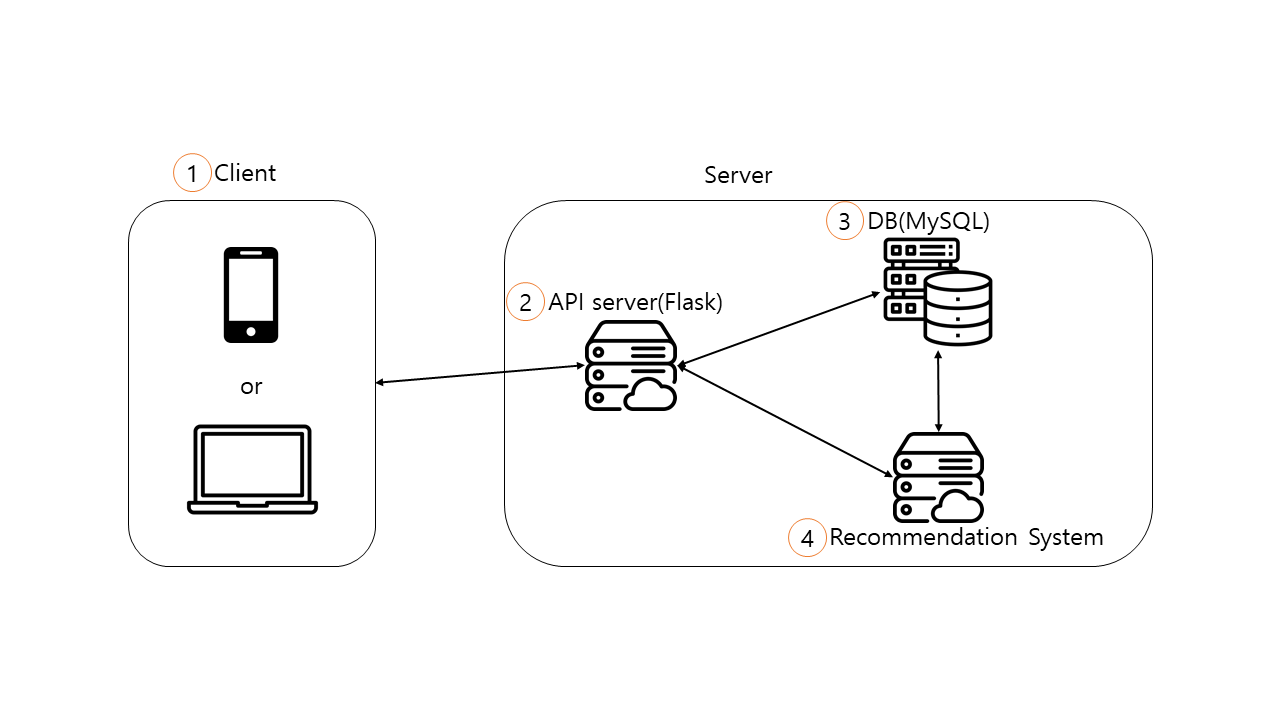
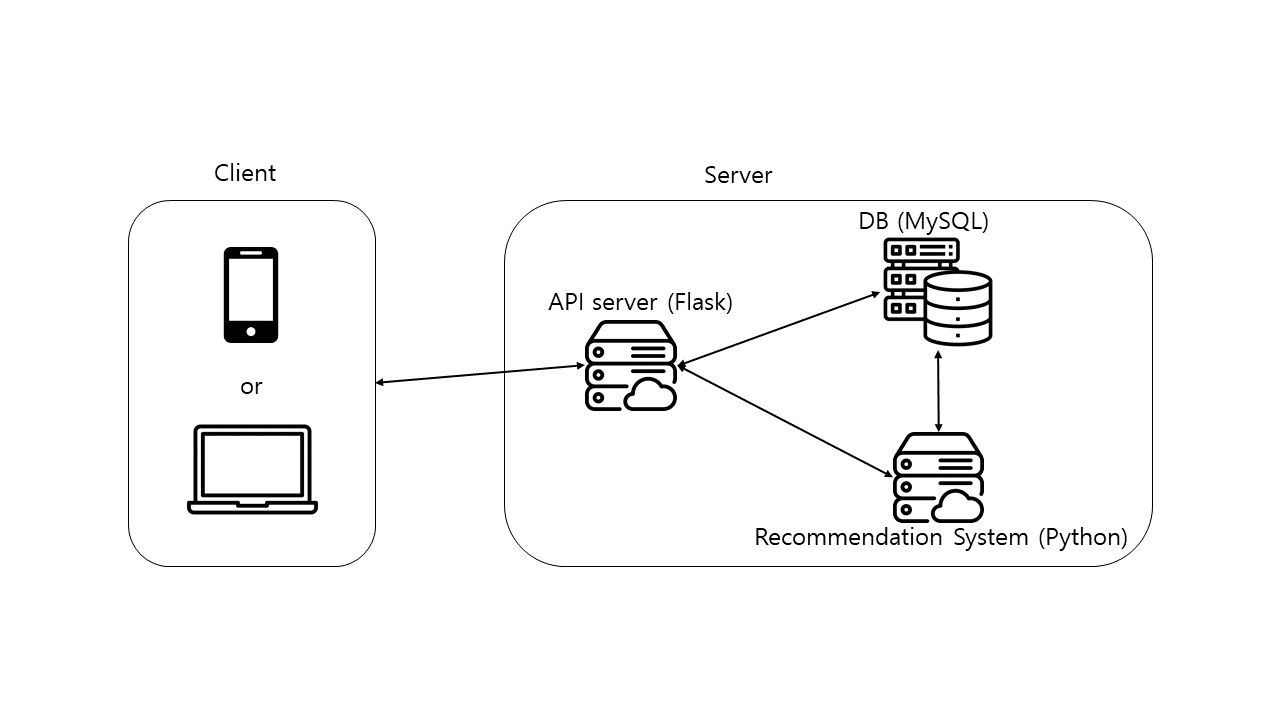
changed images

diff --git a/README.md b/README.md
@@ -1,2 +1,2 @@
 # Easytodo_backend
-<img src="images/context_diagram.png">
+<img src="images/backend context diagram.png">
